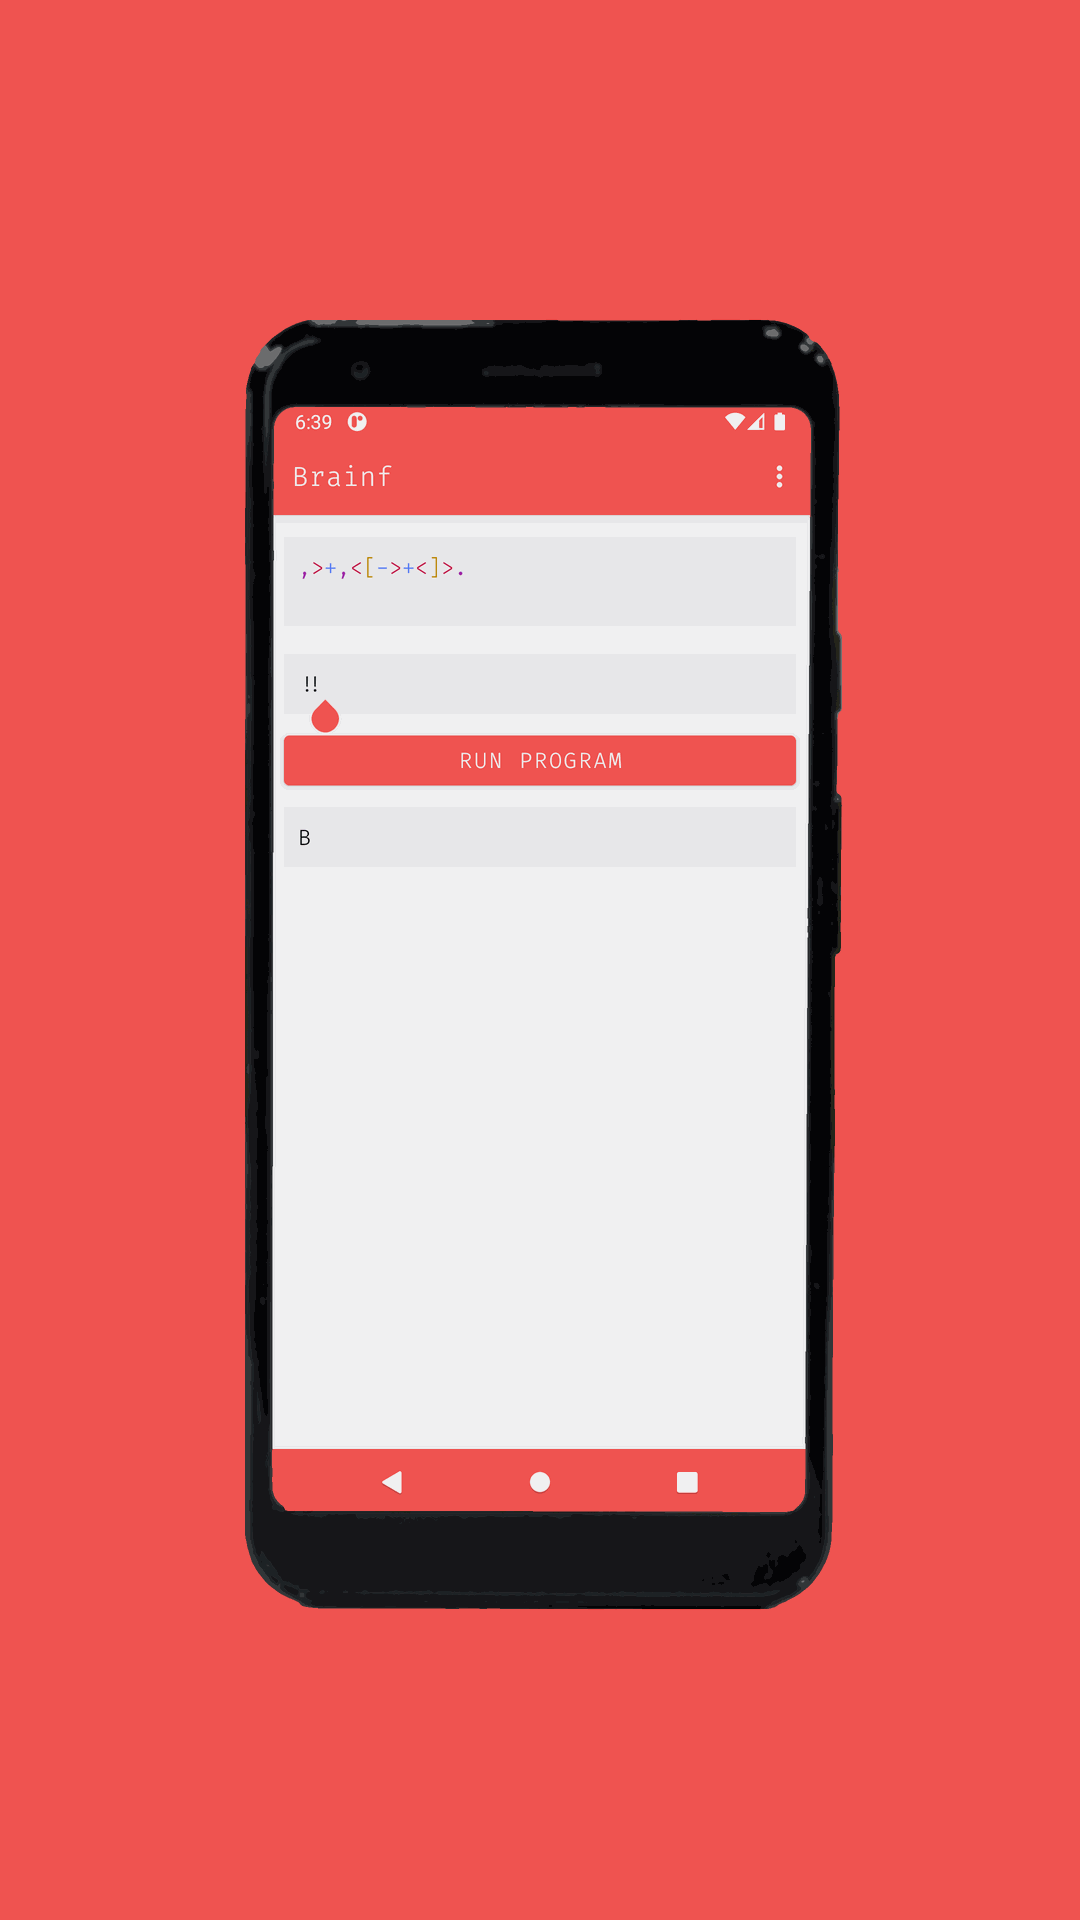
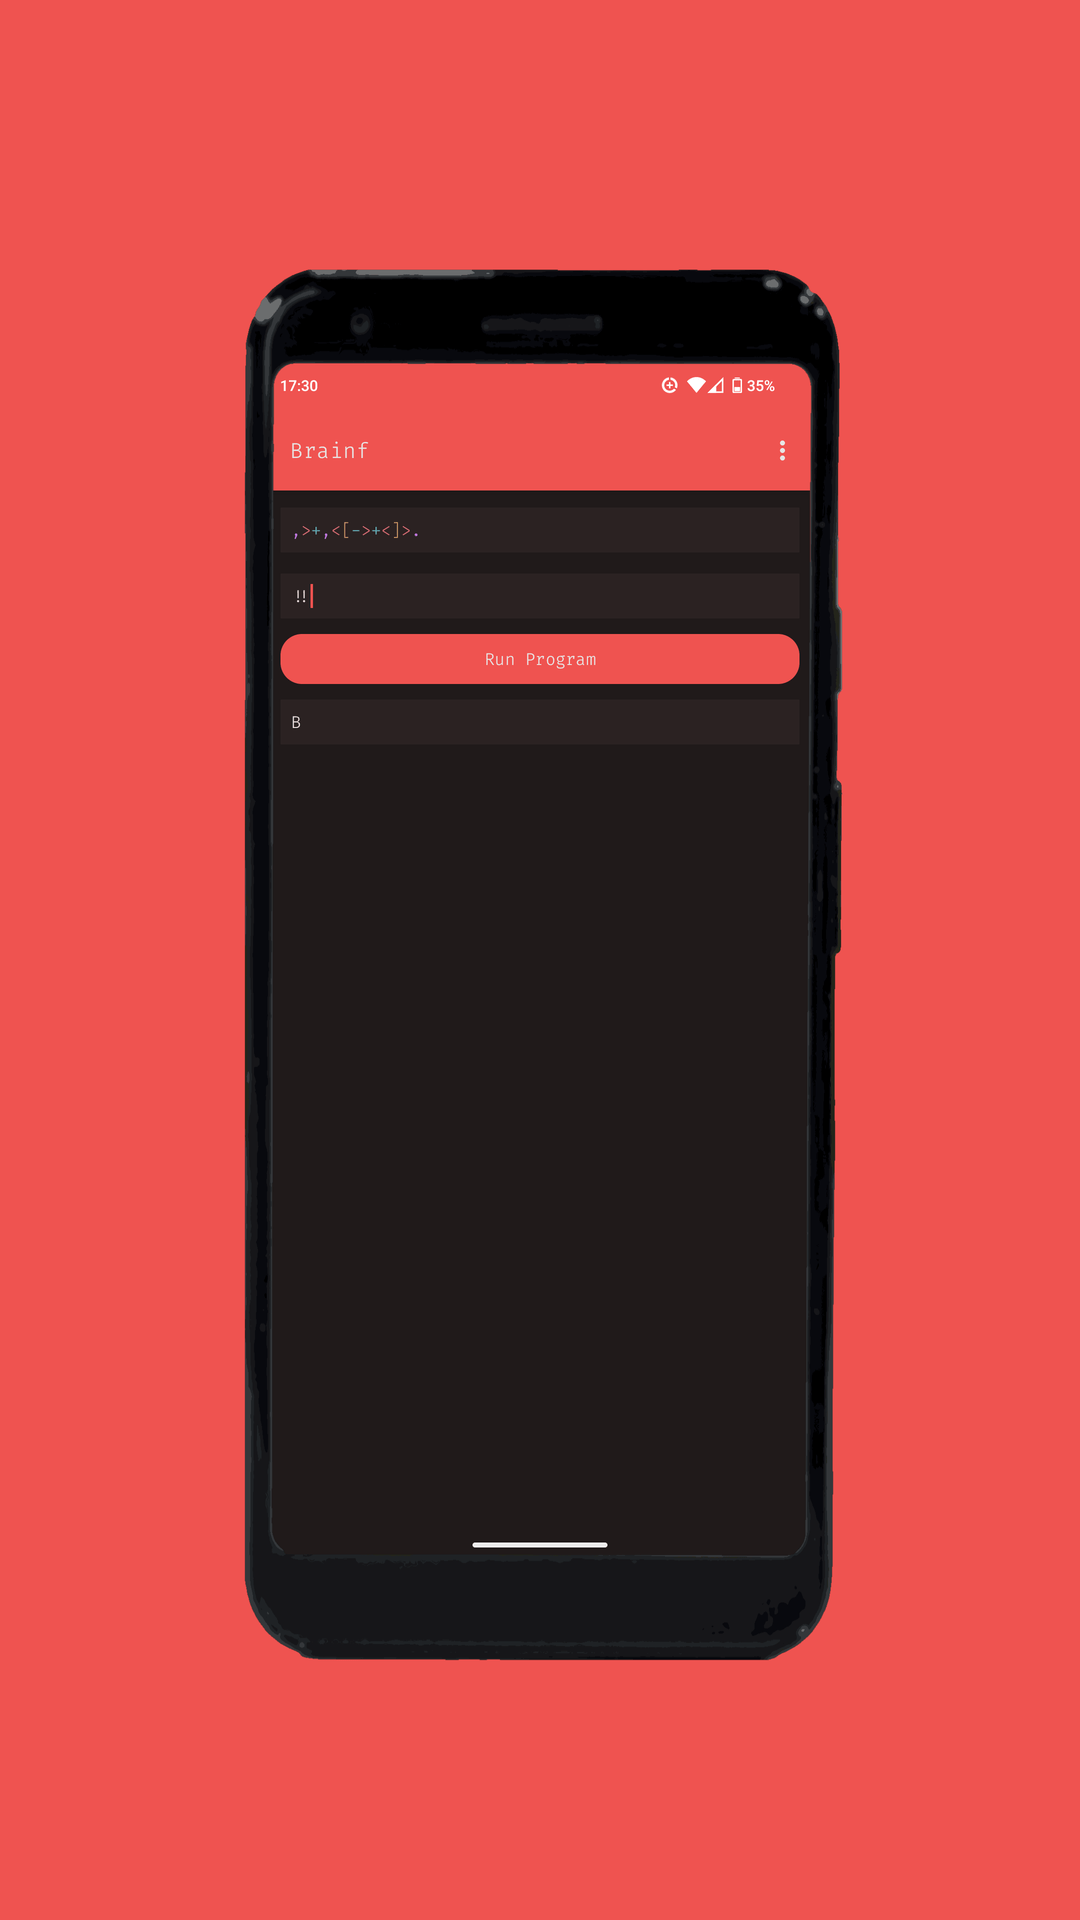
20230828

diff --git a/app/src/main/java/com/fredhappyface/brainf/ActivityAbout.kt b/app/src/main/java/com/fredhappyface/brainf/ActivityAbout.kt
@@ -1,8 +1,9 @@
 package com.fredhappyface.brainf
 
 import android.os.Bundle
+import android.widget.TextView
 import androidx.appcompat.app.AppCompatActivity
-import com.fredhappyface.brainf.R
+import io.noties.markwon.Markwon
 
 /**
  * ActivityAbout class inherits from the AppCompatActivity class - provides the about view
@@ -16,5 +17,13 @@ class ActivityAbout : AppCompatActivity() {
 	override fun onCreate(savedInstanceState: Bundle?) {
 		super.onCreate(savedInstanceState)
 		setContentView(R.layout.activity_about)
+
+		val markwon: Markwon = Markwon.create(this)
+		val featuresText = findViewById<TextView>(R.id.features_text)
+		markwon.setMarkdown(featuresText, getString(R.string.features_text))
+
+		val linksText = findViewById<TextView>(R.id.links_text)
+		markwon.setMarkdown(linksText, getString(R.string.links_text))
+
 	}
 }

diff --git a/app/src/main/java/com/fredhappyface/brainf/ActivityMain.kt b/app/src/main/java/com/fredhappyface/brainf/ActivityMain.kt
@@ -15,7 +15,6 @@ import android.widget.TextView
 import androidx.activity.result.contract.ActivityResultContracts
 import androidx.appcompat.app.AlertDialog
 import androidx.appcompat.app.AppCompatActivity
-import com.fredhappyface.brainf.R
 import java.io.*
 
 private const val MAX_FILE_SIZE = 1024 * 1024 // 1Mb

diff --git a/README.md b/README.md
@@ -1,11 +1,11 @@
 
 <img src="metadata/en-US/images/featureGraphic.png" alt="Feature Graphic" width="">
 
-[![GitHub top language](https://img.shields.io/github/languages/top/FredHappyface/Android.Brainf.svg?style=for-the-badge)](../../)
-[![Issues](https://img.shields.io/github/issues/FredHappyface/Android.Brainf.svg?style=for-the-badge)](../../issues)
-[![License](https://img.shields.io/github/license/FredHappyface/Android.Brainf.svg?style=for-the-badge)](/LICENSE.md)
-[![Commit activity](https://img.shields.io/github/commit-activity/m/FredHappyface/Android.Brainf.svg?style=for-the-badge)](../../commits/master)
-[![Last commit](https://img.shields.io/github/last-commit/FredHappyface/Android.Brainf.svg?style=for-the-badge)](../../commits/master)
+[![GitHub top language](https://img.shields.io/github/languages/top/FredHappyface/Android.Brainf.svg?style=for-the-badge&cacheSeconds=28800)](../../)
+[![Issues](https://img.shields.io/github/issues/FredHappyface/Android.Brainf.svg?style=for-the-badge&cacheSeconds=28800)](../../issues)
+[![License](https://img.shields.io/github/license/FredHappyface/Android.Brainf.svg?style=for-the-badge&cacheSeconds=28800)](/LICENSE.md)
+[![Commit activity](https://img.shields.io/github/commit-activity/m/FredHappyface/Android.Brainf.svg?style=for-the-badge&cacheSeconds=28800)](../../commits/master)
+[![Last commit](https://img.shields.io/github/last-commit/FredHappyface/Android.Brainf.svg?style=for-the-badge&cacheSeconds=28800)](../../commits/master)
 [![GitHub all releases](https://img.shields.io/github/downloads/FredHappyface/Android.Brainf/total?style=for-the-badge)](../../releases)
 
 <!-- omit in toc -->

diff --git a/CHANGELOG.md b/CHANGELOG.md
@@ -7,6 +7,12 @@ patch-level version changes can be found in [commit messages](../../commits/mast
 ## Next_Ver - 2022/xx/xx
 -->
 
+## 20230828
+
+- Update app description
+- Update version, screenshots
+- Update UI
+
 ## 20230820 - 2023/08/20
 
 - Update dependencies
